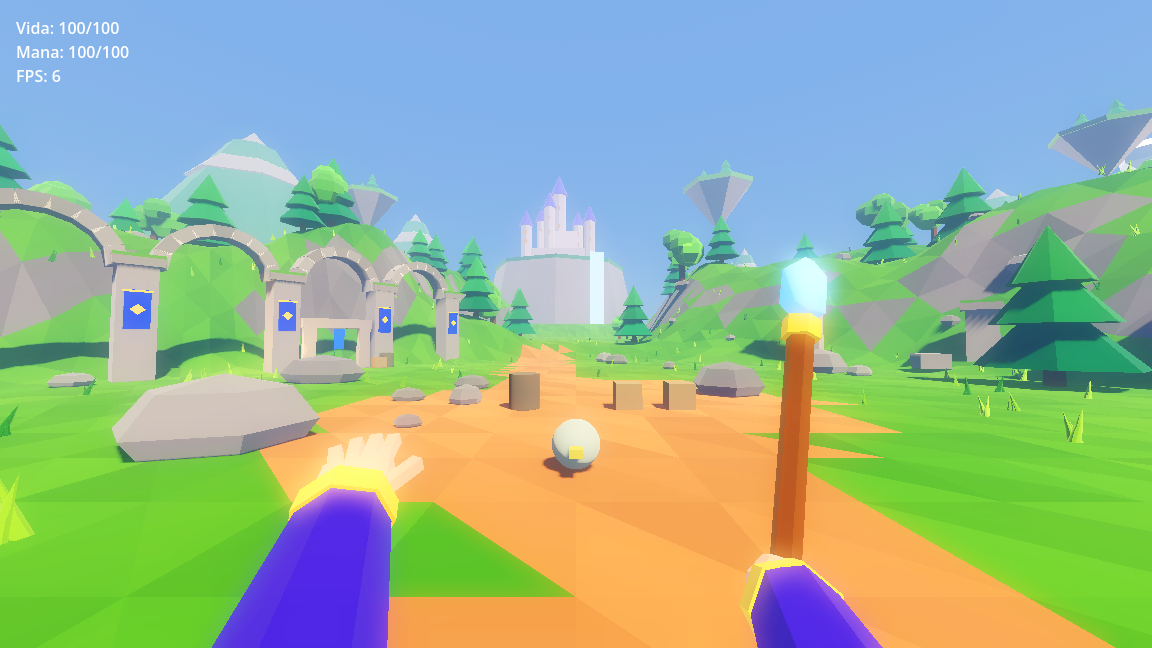
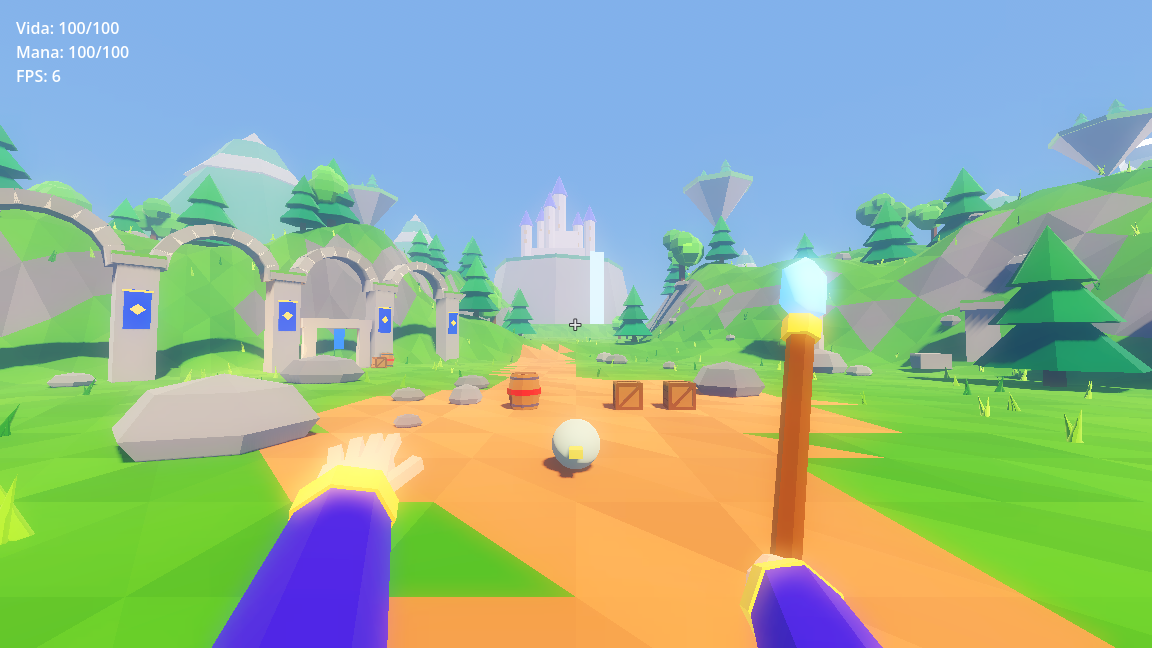
Mira no centro da tela
Claude-Session: https://claude.ai/code/session_011N1HNTAgFQZbY8DxdUKc5s

diff --git a/docs/decisoes.md b/docs/decisoes.md
@@ -388,4 +388,5 @@ O PC antigo do Vitor (Pentium G5400, GTX 1050 2GB, 16GB RAM) deixa de ser o piso
   - 1 teste novo (216 → 217/217). Prints em `evidencias/fase-2/mago_*.png`.
 - **Caixote e barril de madeira** em 21/10/2026 (`scripts/ambiente/modelos_props.gd`). Caixote com quinas reforçadas, tábua em diagonal e frestas; barril bojudo com cintas de metal. O barril inflamável tem uma **faixa vermelha** para o jogador saber de longe que ele pega fogo (decisão minha de legibilidade, fácil de trocar). Aceso, ganha uma camada laranja brilhante por cima da madeira. 4 testes novos (217 → 221/221). Print em `evidencias/fase-2/caixote_e_barril.png`.
 - **Magia sai da mão** em 21/10/2026. Em primeira pessoa a magia nasce na palma da mão esquerda; em terceira, no cristal do cajado. Para a mira continuar honesta, a direção é calculada até o ponto exato que o centro da tela aponta (cenário, galinha ou caixote, até 80 m). Se houver parede entre a câmera e a mão (encostado num muro), sai da câmera, como antes, para a magia não nascer do outro lado da parede. 4 testes novos (221 → 225/225), conferindo nos dois modos de câmera que a magia não sai do meio da tela e chega a menos de 5 cm do ponto da mira. Print em `evidencias/fase-2/magia_saindo_da_mao.png`.
+  - O HUD ganhou uma mira "+" no centro da tela (não existia; com a magia saindo da mão, ela passou a ser necessária). 1 teste novo (226/226).
   - **Observação para o Vitor:** a bola de fogo logo que sai da mão vira um clarão amarelo-branco por causa do brilho (glow), em vez do laranja de chama da referência. Partículas de fogo resolveriam (mesma decisão pendente do estado "queimando").
